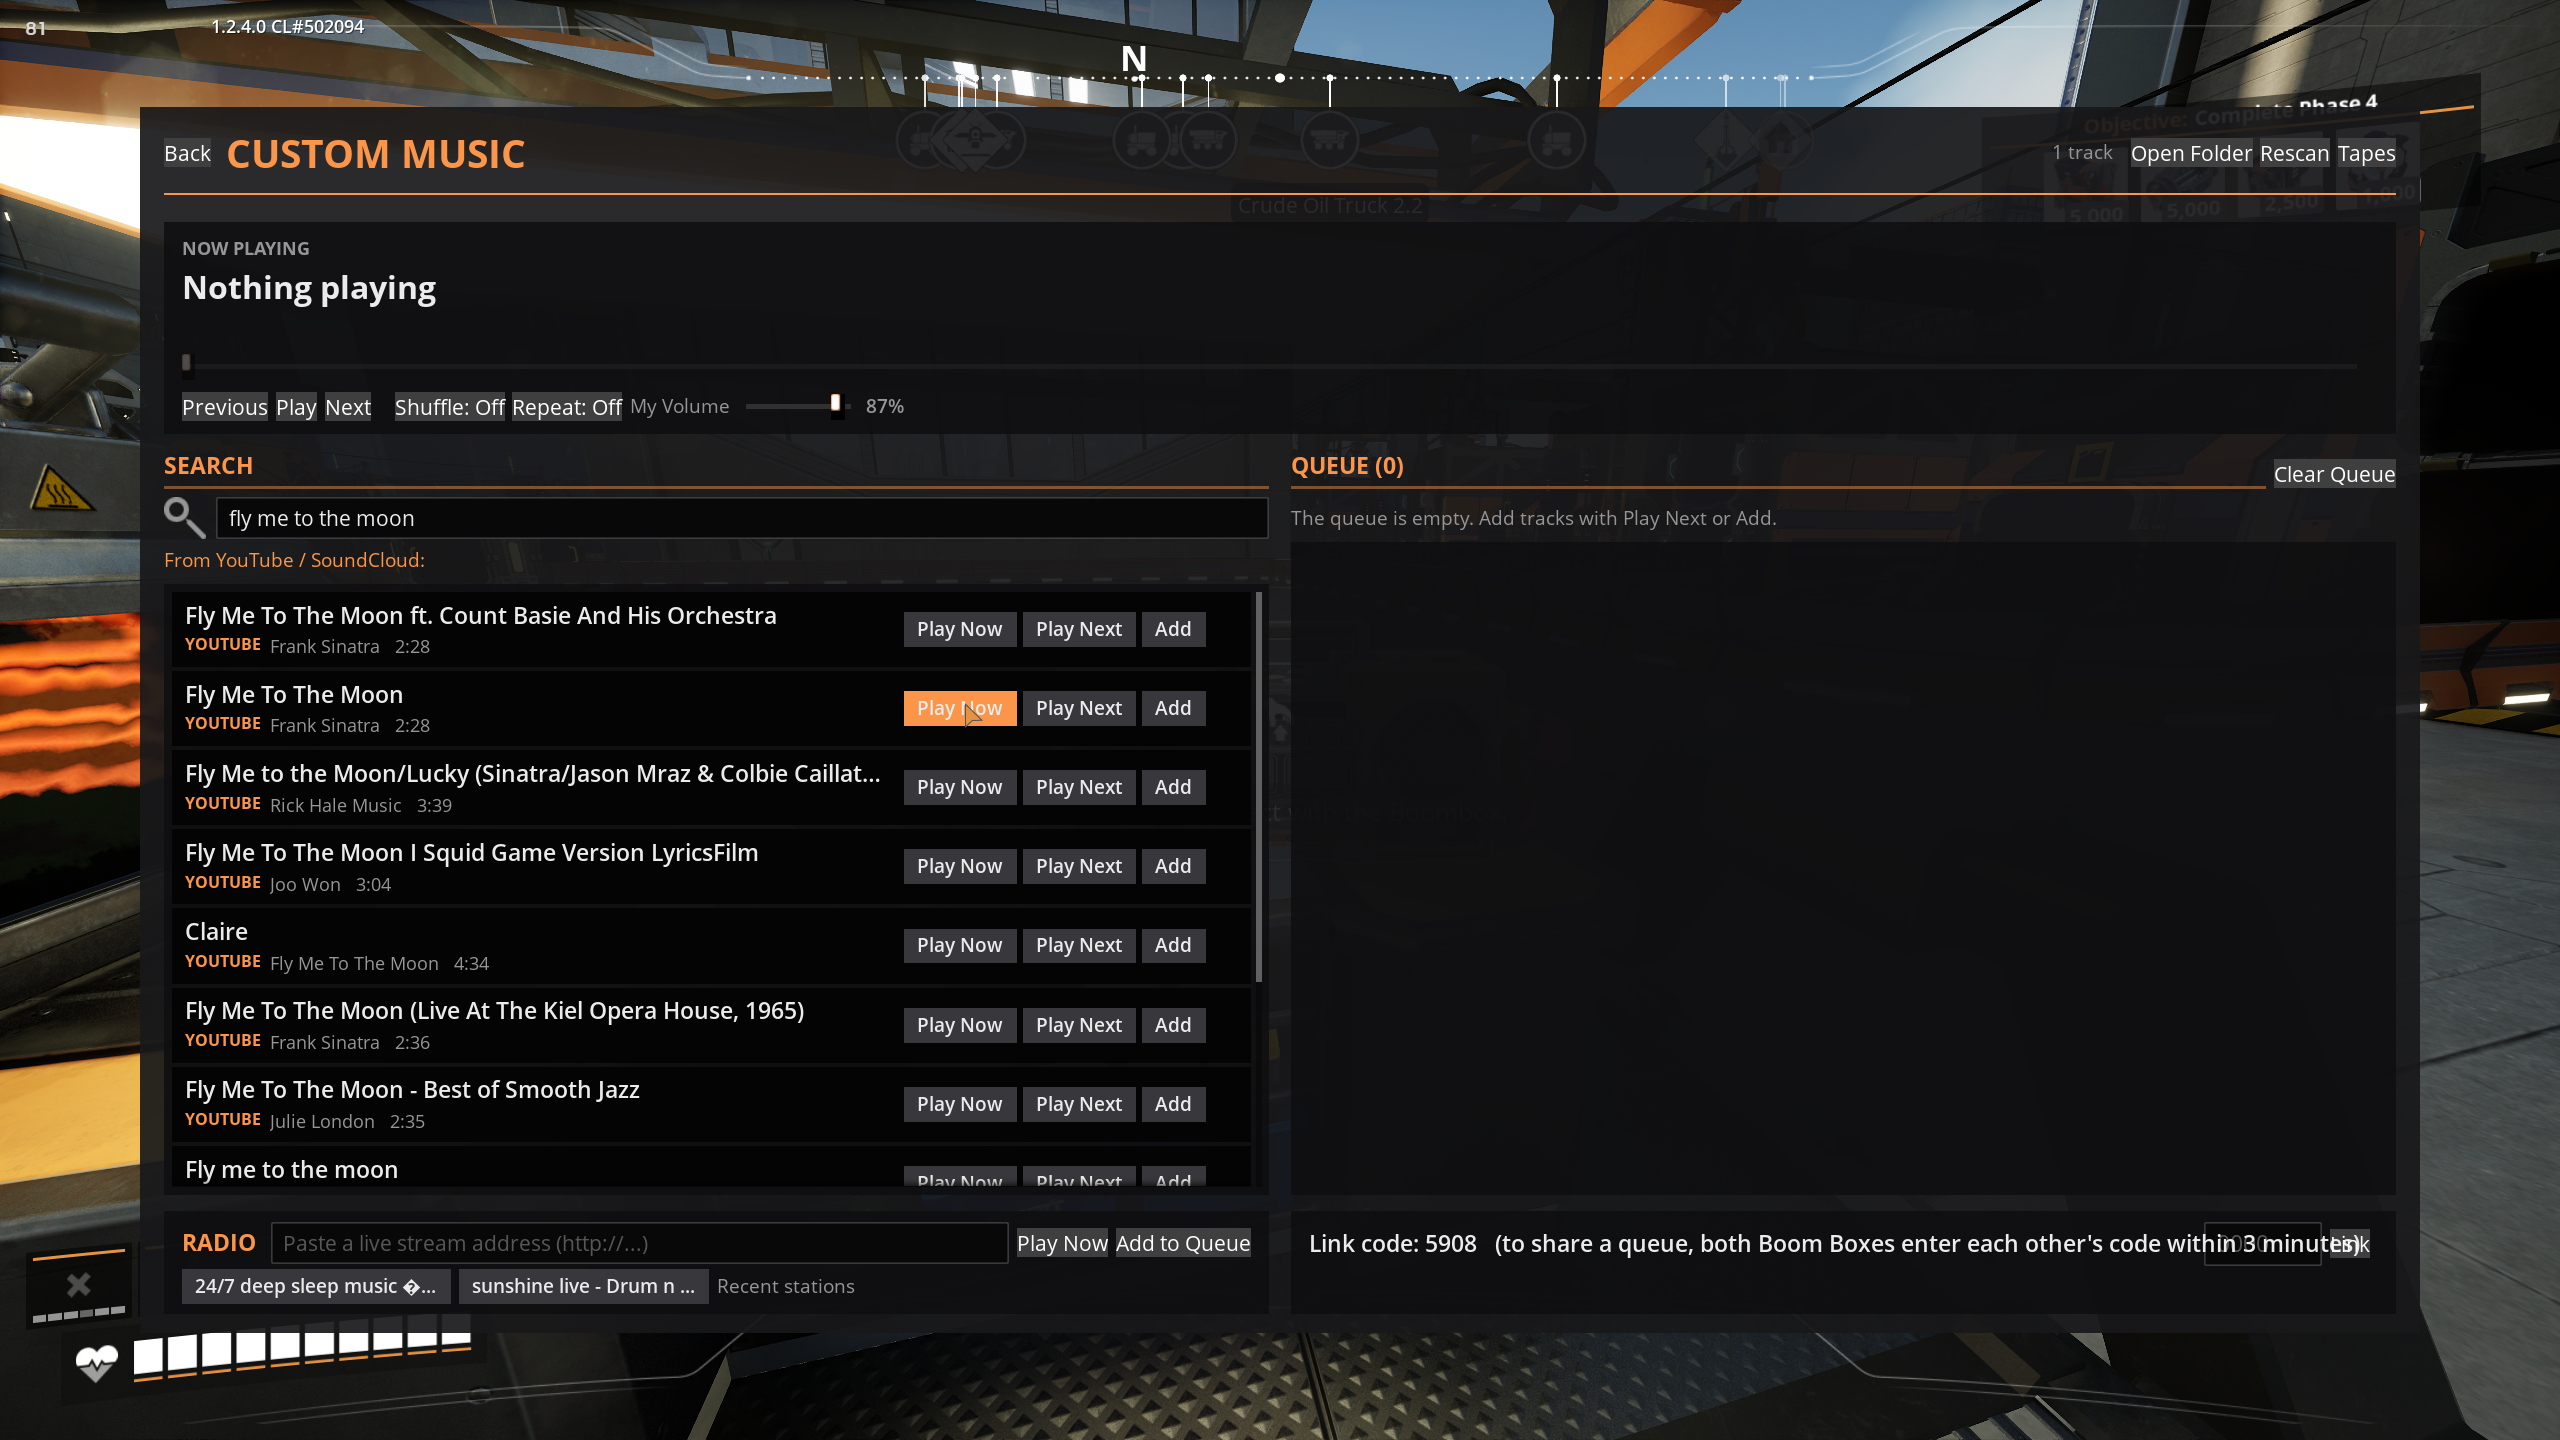
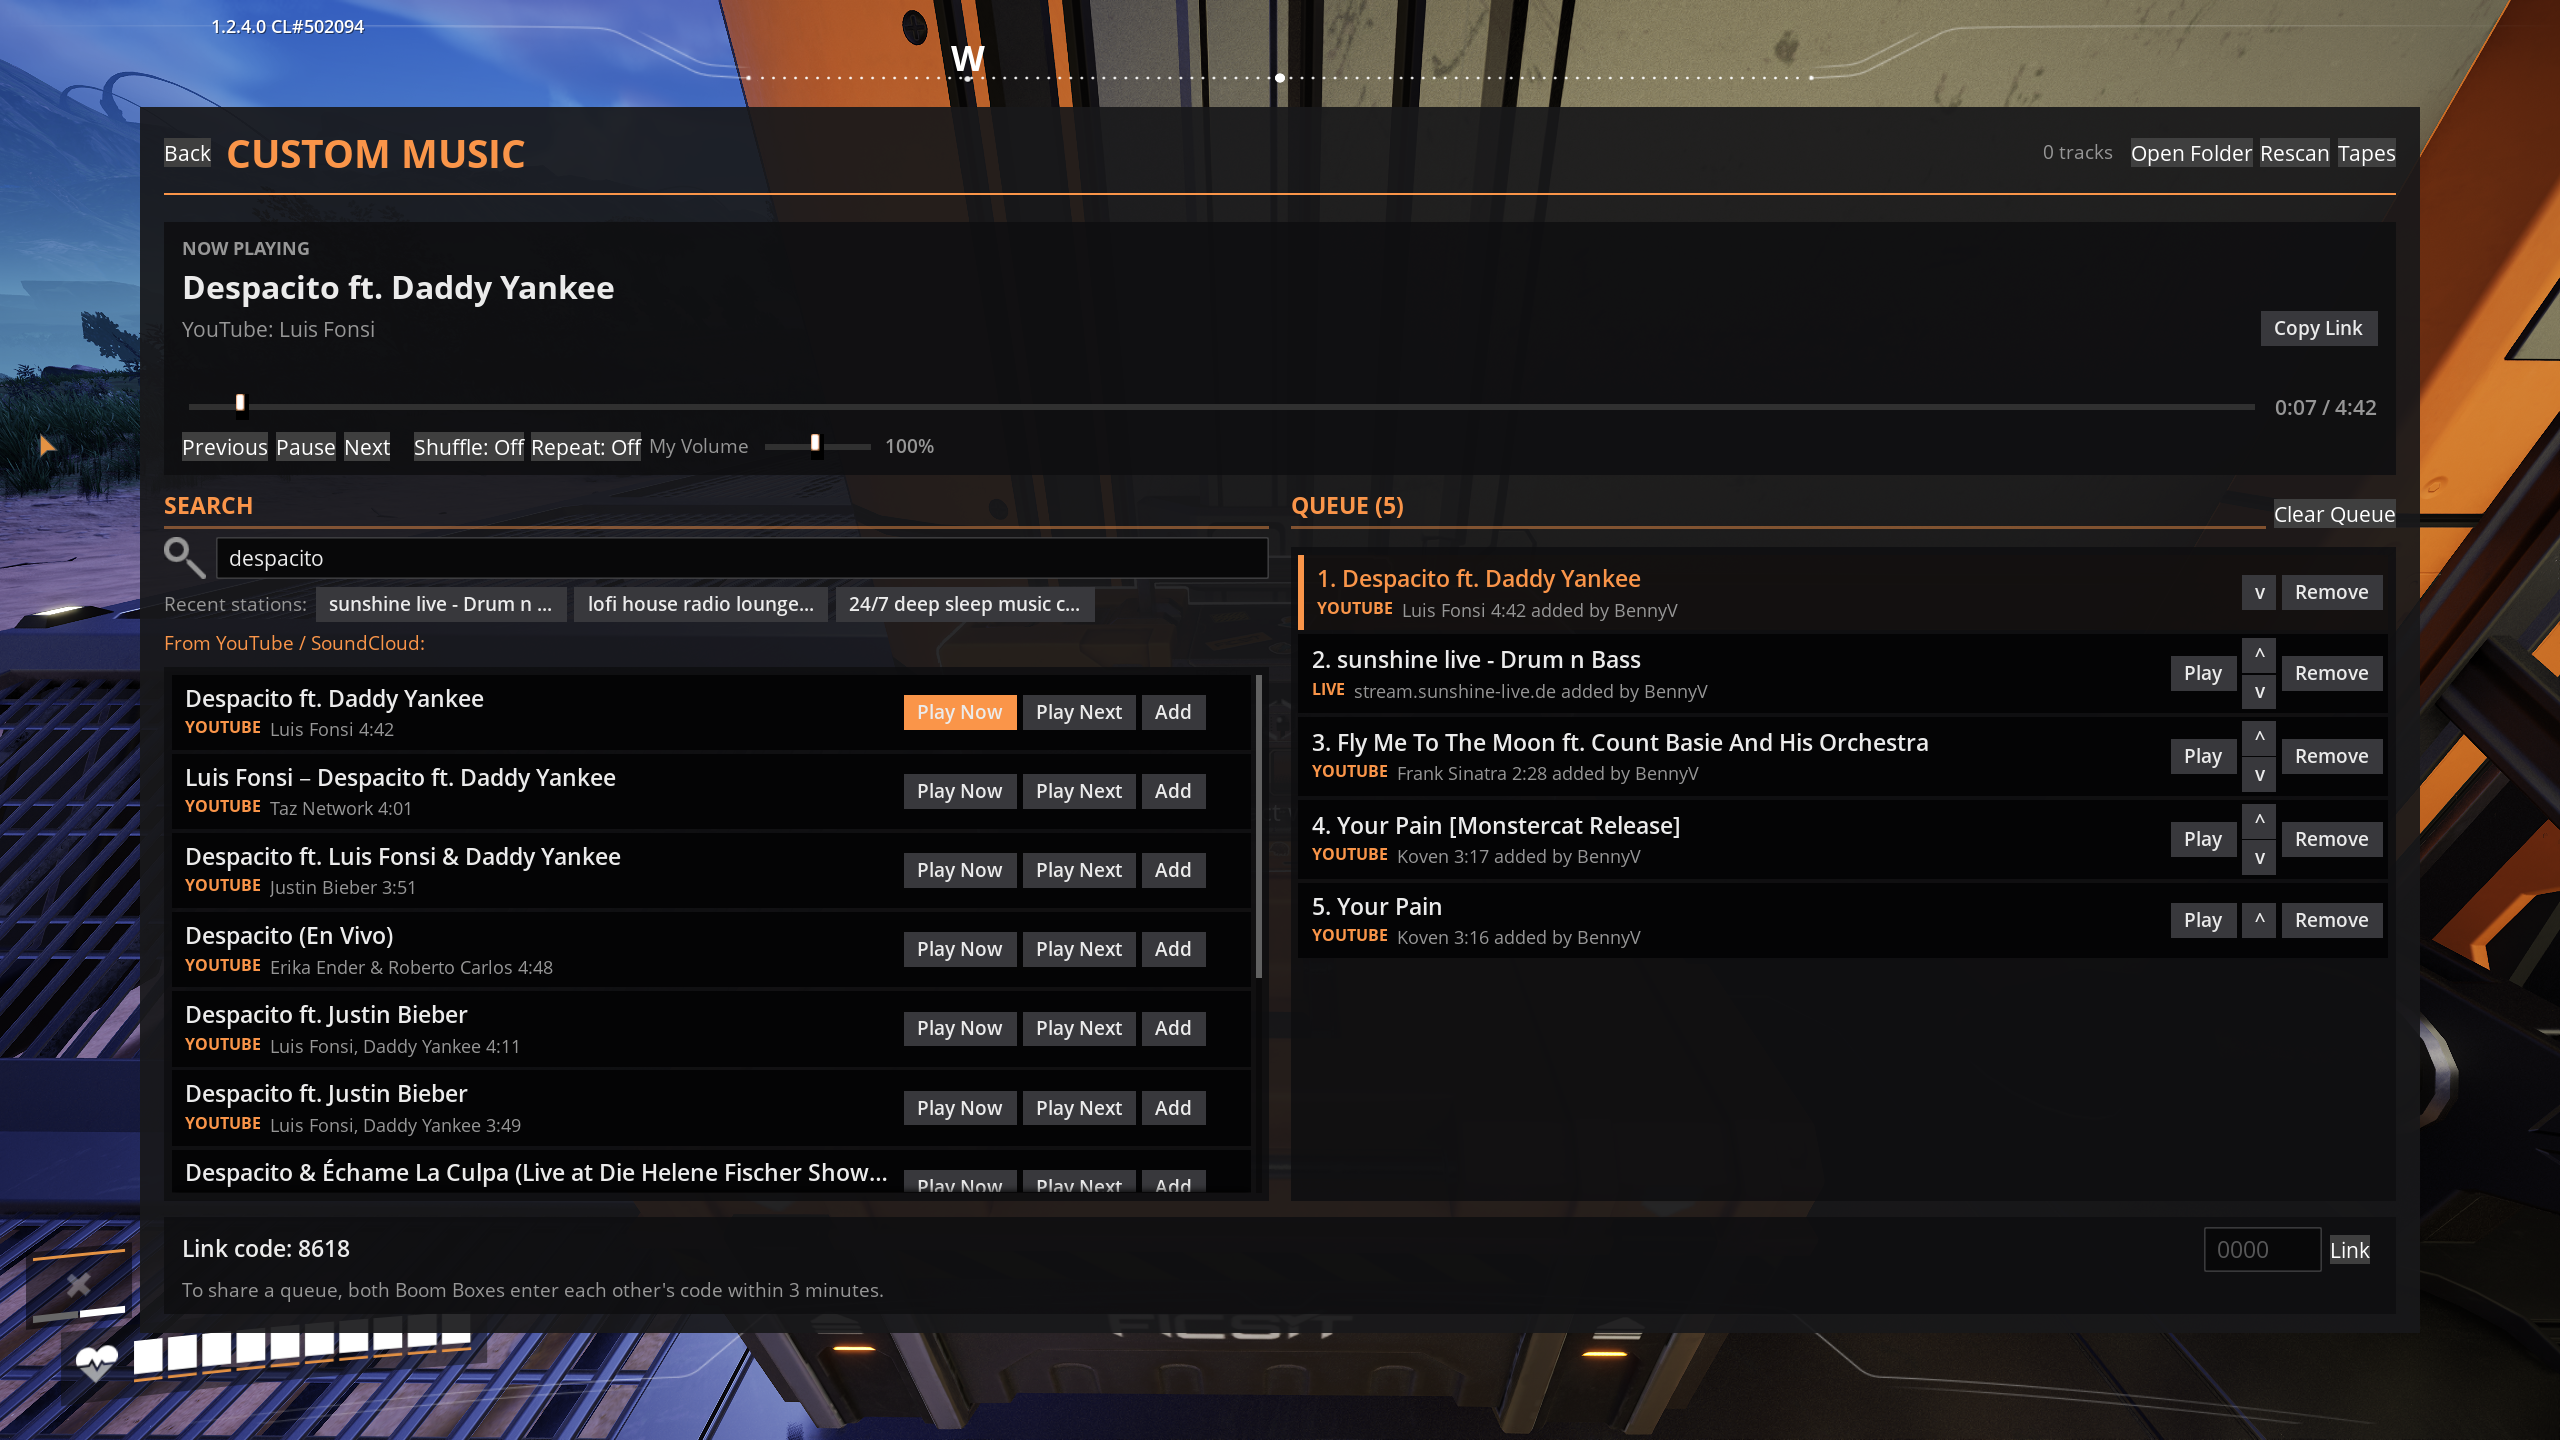
Replace screenshots with 1.2.6 ones; drop obsolete images
New shots of the Custom Music page, search results, the radio
now-playing notification, the vanilla Boom Box screen, lyrics (placed
and carried) and the settings menu. youtube-live.png showed the removed
Radio panel and is gone. README and mod page captions match the new
images.

diff --git a/README.md b/README.md
@@ -13,20 +13,18 @@ PEAK mod sPEAKer.
 
 ## Screenshots
 
-The Custom Music page: now playing with a seek bar, search results, the queue, internet radio and the link
-code for sharing a queue.
+The Custom Music page: now playing with its source ("YouTube: Luis Fonsi"), Copy Link, the current lyric,
+the seek bar, recent radio stations, the queue and the link code for sharing a queue.
 
 ![The Custom Music page](Docs/Images/music-page.png)
 
-Search results from your own music, YouTube and SoundCloud, each with Play Now, Play Next and Add.
+Search results from YouTube and SoundCloud, each with Play Now, Play Next and Add.
 
 ![Search results](Docs/Images/search-results.png)
 
-An internet radio station and a YouTube live stream playing, with recent stations one click away under the search box.
+The now-playing notification for a radio station: the song it announces, the artist and the station.
 
-![A radio station playing](Docs/Images/radio.png)
-
-![A YouTube live stream playing](Docs/Images/youtube-live.png)
+![A radio station's announced song in the now-playing notification](Docs/Images/radio.png)
 
 Pasting a Spotify playlist: songs are matched on YouTube as you watch, and **Add all** queues them as they're
 found while the rest are still being matched.
@@ -35,15 +33,21 @@ found while the rest are still being matched.
 
 ![Matches queueing while matching continues](Docs/Images/spotify-queueing.png)
 
-The current lyric line while a Boom Box plays nearby.
+The current lyric line while a Boom Box plays nearby, placed or carried.
 
-![Lyrics on screen near a Boom Box](Docs/Images/lyrics-in-world.png)
+![Lyrics on screen near a placed Boom Box](Docs/Images/lyrics-in-world.png)
 
-The Boom Box's own screen with the added **Custom Music** button, and the Custom Music tape in the tape list.
+![Lyrics on screen while carrying a Boom Box](Docs/Images/lyrics-carrying.png)
 
-![The vanilla Boom Box screen with the Custom Music button](Docs/Images/vanilla-boombox-page.png)
+The Boom Box's own screen following Custom Music, and the Custom Music tape in the tape list.
+
+![The vanilla Boom Box screen playing Custom Music](Docs/Images/vanilla-boombox-page.png)
 
 ![The Custom Music tape in the tape list](Docs/Images/tape-list.png)
+
+The settings in **Mods → BoomBoxPlus**.
+
+![The mod's settings](Docs/Images/settings.png)
 
 ## Building
 

diff --git a/Docs/Release/ModPage.md b/Docs/Release/ModPage.md
@@ -20,15 +20,17 @@ everyone within earshot hears the same song at the same moment.
 
 Inspired by the PEAK mod sPEAKer.
 
-![The Custom Music page: now playing, search results and the queue](https://raw.githubusercontent.com/benvrakas/BoomBoxPlus/main/Docs/Images/music-page.png)
+![The Custom Music page: now playing with its source and Copy Link, the current lyric and the queue](https://raw.githubusercontent.com/benvrakas/BoomBoxPlus/main/Docs/Images/music-page.png)
 
 ![Search results with Play Now, Play Next and Add](https://raw.githubusercontent.com/benvrakas/BoomBoxPlus/main/Docs/Images/search-results.png)
 
-![An internet radio station playing live](https://raw.githubusercontent.com/benvrakas/BoomBoxPlus/main/Docs/Images/radio.png)
+![A radio station's announced song in the now-playing notification](https://raw.githubusercontent.com/benvrakas/BoomBoxPlus/main/Docs/Images/radio.png)
 
-![A Boom Box playing, with the current lyric line on screen](https://raw.githubusercontent.com/benvrakas/BoomBoxPlus/main/Docs/Images/lyrics-in-world.png)
+![A placed Boom Box playing, with the current lyric line on screen](https://raw.githubusercontent.com/benvrakas/BoomBoxPlus/main/Docs/Images/lyrics-in-world.png)
 
-![The Boom Box's own screen, with the Custom Music button](https://raw.githubusercontent.com/benvrakas/BoomBoxPlus/main/Docs/Images/vanilla-boombox-page.png)
+![Carrying a Boom Box: lyrics on screen, and Turbo Bass still works](https://raw.githubusercontent.com/benvrakas/BoomBoxPlus/main/Docs/Images/lyrics-carrying.png)
+
+![The Boom Box's own screen following Custom Music](https://raw.githubusercontent.com/benvrakas/BoomBoxPlus/main/Docs/Images/vanilla-boombox-page.png)
 
 ### Features
 
@@ -125,6 +127,8 @@ no sign-in.
 
 Open **Mods → BoomBoxPlus**. Your Custom Music volume is the "My Volume" slider on the Custom Music page
 itself, next to the transport controls, rather than a setting here.
+
+![The mod's settings in Mods → BoomBoxPlus](https://raw.githubusercontent.com/benvrakas/BoomBoxPlus/main/Docs/Images/settings.png)
 
 | Setting | Default | What it does |
 |---|---|---|
